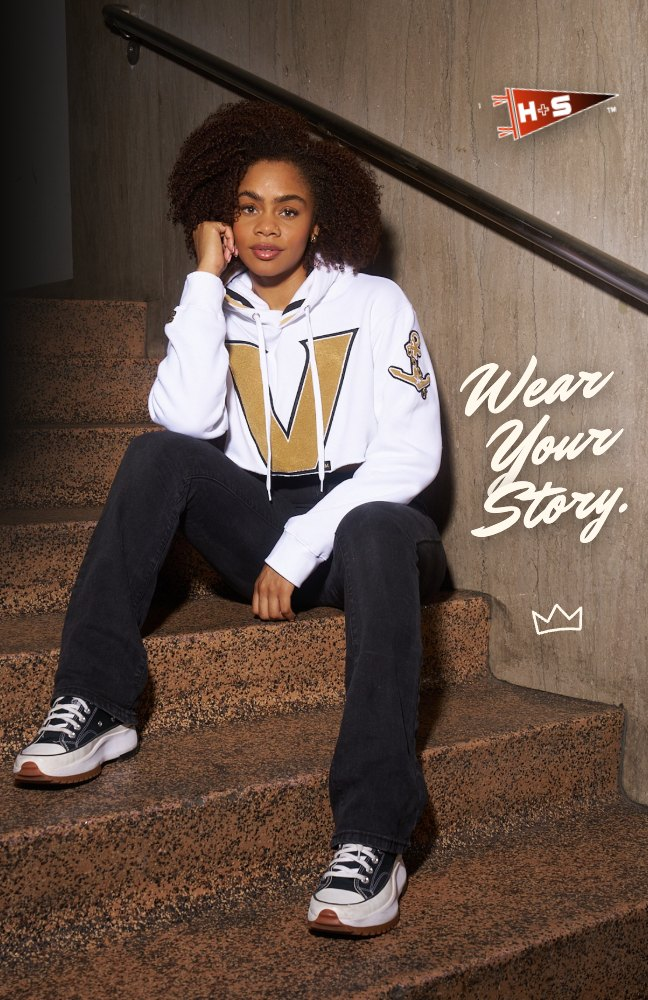
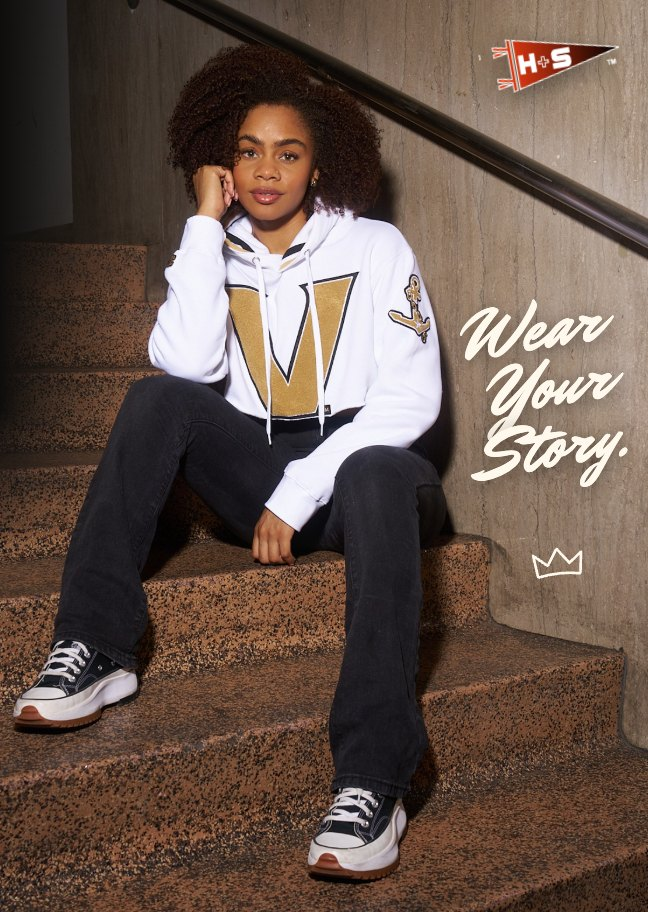
Drop email: fuller hero column

diff --git a/emails/vanderbilt-drop.html b/emails/vanderbilt-drop.html
@@ -80,18 +80,23 @@
                 <td class="col hero-copy" width="234" valign="middle" style="padding:30px 18px 26px 24px;text-align:left;">
                   <p style="margin:0;font-family:Helvetica,Arial,sans-serif;font-weight:bold;text-transform:uppercase;font-size:11px;line-height:16px;letter-spacing:2px;color:#cfae70;">School pride<br>lives different here.</p>
                   <div style="height:14px;line-height:14px;mso-line-height-rule:exactly;font-size:1px;">&nbsp;</div>
-                  <p style="margin:0;font-family:Helvetica,Arial,sans-serif;font-size:20px;line-height:26px;font-weight:bold;color:#f3eee5;">Classic campus<br>style, elevated.</p>
-                  <p style="margin:8px 0 0;font-family:Helvetica,Arial,sans-serif;font-size:14px;line-height:21px;color:#cfc6b6;">Premium hoodies made to rep your school with&nbsp;pride.</p>
-                  <div style="height:20px;line-height:20px;mso-line-height-rule:exactly;font-size:1px;">&nbsp;</div>
+                  <p style="margin:0;font-family:Helvetica,Arial,sans-serif;font-size:24px;line-height:29px;font-weight:bold;letter-spacing:-0.2px;color:#f3eee5;">Classic campus<br>style, elevated.</p>
+                  <p style="margin:10px 0 0;font-family:Helvetica,Arial,sans-serif;font-size:14px;line-height:21px;color:#cfc6b6;">Premium hoodies made to rep your school with&nbsp;pride.</p>
+                  <div style="height:22px;line-height:22px;mso-line-height-rule:exactly;font-size:1px;">&nbsp;</div>
+                  <table role="presentation" width="100%" cellpadding="0" cellspacing="0" border="0">
+                    <tr><td width="50%" valign="middle" style="padding:0 0 10px;"><a href="https://taylormadecreative.github.io/hoodiesnstripes-preview/?utm_source=email&amp;utm_medium=email&amp;utm_campaign=vanderbilt_drop&amp;utm_content=hero_colorway_camo#vanderbilt" style="text-decoration:none;"><img src="https://taylormadecreative.github.io/hoodiesnstripes-preview/emails/img/sw-camo.png?v=ac0f8a36" width="16" height="16" alt="" style="display:inline-block;vertical-align:-3px;width:16px;height:16px;border:0;font-family:Helvetica,Arial,sans-serif;font-size:13px;line-height:1.3;color:#f3eee5;">&nbsp;&nbsp;<span style="font-family:Helvetica,Arial,sans-serif;font-size:13px;line-height:18px;color:#e9e2d4;">Camo</span></a></td><td width="50%" valign="middle" style="padding:0 0 10px;"><a href="https://taylormadecreative.github.io/hoodiesnstripes-preview/?utm_source=email&amp;utm_medium=email&amp;utm_campaign=vanderbilt_drop&amp;utm_content=hero_colorway_cream#vanderbilt" style="text-decoration:none;"><img src="https://taylormadecreative.github.io/hoodiesnstripes-preview/emails/img/sw-cream.png?v=46aff4e7" width="16" height="16" alt="" style="display:inline-block;vertical-align:-3px;width:16px;height:16px;border:0;font-family:Helvetica,Arial,sans-serif;font-size:13px;line-height:1.3;color:#f3eee5;">&nbsp;&nbsp;<span style="font-family:Helvetica,Arial,sans-serif;font-size:13px;line-height:18px;color:#e9e2d4;">Cream</span></a></td></tr>
+                    <tr><td width="50%" valign="middle" style="padding:0 0 10px;"><a href="https://taylormadecreative.github.io/hoodiesnstripes-preview/?utm_source=email&amp;utm_medium=email&amp;utm_campaign=vanderbilt_drop&amp;utm_content=hero_colorway_black_gold#vanderbilt" style="text-decoration:none;"><img src="https://taylormadecreative.github.io/hoodiesnstripes-preview/emails/img/sw-black-gold.png?v=b049b80c" width="16" height="16" alt="" style="display:inline-block;vertical-align:-3px;width:16px;height:16px;border:0;font-family:Helvetica,Arial,sans-serif;font-size:13px;line-height:1.3;color:#f3eee5;">&nbsp;&nbsp;<span style="font-family:Helvetica,Arial,sans-serif;font-size:13px;line-height:18px;color:#e9e2d4;">Black / Gold</span></a></td><td width="50%" valign="middle" style="padding:0 0 10px;"><a href="https://taylormadecreative.github.io/hoodiesnstripes-preview/?utm_source=email&amp;utm_medium=email&amp;utm_campaign=vanderbilt_drop&amp;utm_content=hero_colorway_white_gold#vanderbilt" style="text-decoration:none;"><img src="https://taylormadecreative.github.io/hoodiesnstripes-preview/emails/img/sw-white-gold.png?v=c2ce2336" width="16" height="16" alt="" style="display:inline-block;vertical-align:-3px;width:16px;height:16px;border:0;font-family:Helvetica,Arial,sans-serif;font-size:13px;line-height:1.3;color:#f3eee5;">&nbsp;&nbsp;<span style="font-family:Helvetica,Arial,sans-serif;font-size:13px;line-height:18px;color:#e9e2d4;">White / Gold</span></a></td></tr>
+                  </table>
+                  <div style="height:16px;line-height:16px;mso-line-height-rule:exactly;font-size:1px;">&nbsp;</div>
                   <table role="presentation" cellpadding="0" cellspacing="0" border="0">
                 <tr>
                   <td bgcolor="#cfae70" style="background:#cfae70;mso-padding-alt:15px 24px;"><a href="https://taylormadecreative.github.io/hoodiesnstripes-preview/?utm_source=email&amp;utm_medium=email&amp;utm_campaign=vanderbilt_drop&amp;utm_content=hero_cta#vanderbilt" class="btn" style="display:inline-block;padding:15px 24px;font-family:Helvetica,Arial,sans-serif;font-weight:bold;text-transform:uppercase;font-size:14px;line-height:14px;letter-spacing:1.5px;color:#0e0d0c;text-decoration:none;white-space:nowrap;">Shop Vanderbilt &rarr;</a></td>
                 </tr>
               </table>
-                  <div style="height:20px;line-height:20px;mso-line-height-rule:exactly;font-size:1px;">&nbsp;</div>
+                  <div style="height:24px;line-height:24px;mso-line-height-rule:exactly;font-size:1px;">&nbsp;</div>
                   <p style="margin:0;font-family:Helvetica,Arial,sans-serif;font-weight:bold;text-transform:uppercase;font-size:11px;line-height:16px;letter-spacing:2px;color:#a39a8b;">People &times; Culture<br>Style &times; Forever</p>
                 </td>
-                <td class="col" width="324" valign="top" style="background:#0e0d0c;"><a href="https://taylormadecreative.github.io/hoodiesnstripes-preview/?utm_source=email&amp;utm_medium=email&amp;utm_campaign=vanderbilt_drop&amp;utm_content=hero_photo#vanderbilt"><img src="https://taylormadecreative.github.io/hoodiesnstripes-preview/emails/img/hero-photo.jpg?v=01282185" width="324" alt="A model sits on stone stairs in the white Vanderbilt V hoodie with the gold chenille V and the anchor on the sleeve. Script on the wall: Wear Your Story." class="fluid" style="display:block;width:100%;max-width:324px;height:auto;border:0;outline:none;font-family:Helvetica,Arial,sans-serif;font-size:13px;line-height:1.3;color:#f3eee5;"></a></td>
+                <td class="col" width="324" valign="top" style="background:#0e0d0c;"><a href="https://taylormadecreative.github.io/hoodiesnstripes-preview/?utm_source=email&amp;utm_medium=email&amp;utm_campaign=vanderbilt_drop&amp;utm_content=hero_photo#vanderbilt"><img src="https://taylormadecreative.github.io/hoodiesnstripes-preview/emails/img/hero-photo.jpg?v=990ae520" width="324" alt="A model sits on stone stairs in the white Vanderbilt V hoodie with the gold chenille V and the anchor on the sleeve. Script on the wall: Wear Your Story." class="fluid" style="display:block;width:100%;max-width:324px;height:auto;border:0;outline:none;font-family:Helvetica,Arial,sans-serif;font-size:13px;line-height:1.3;color:#f3eee5;"></a></td>
               </tr></table>
             </td>
           </tr>
